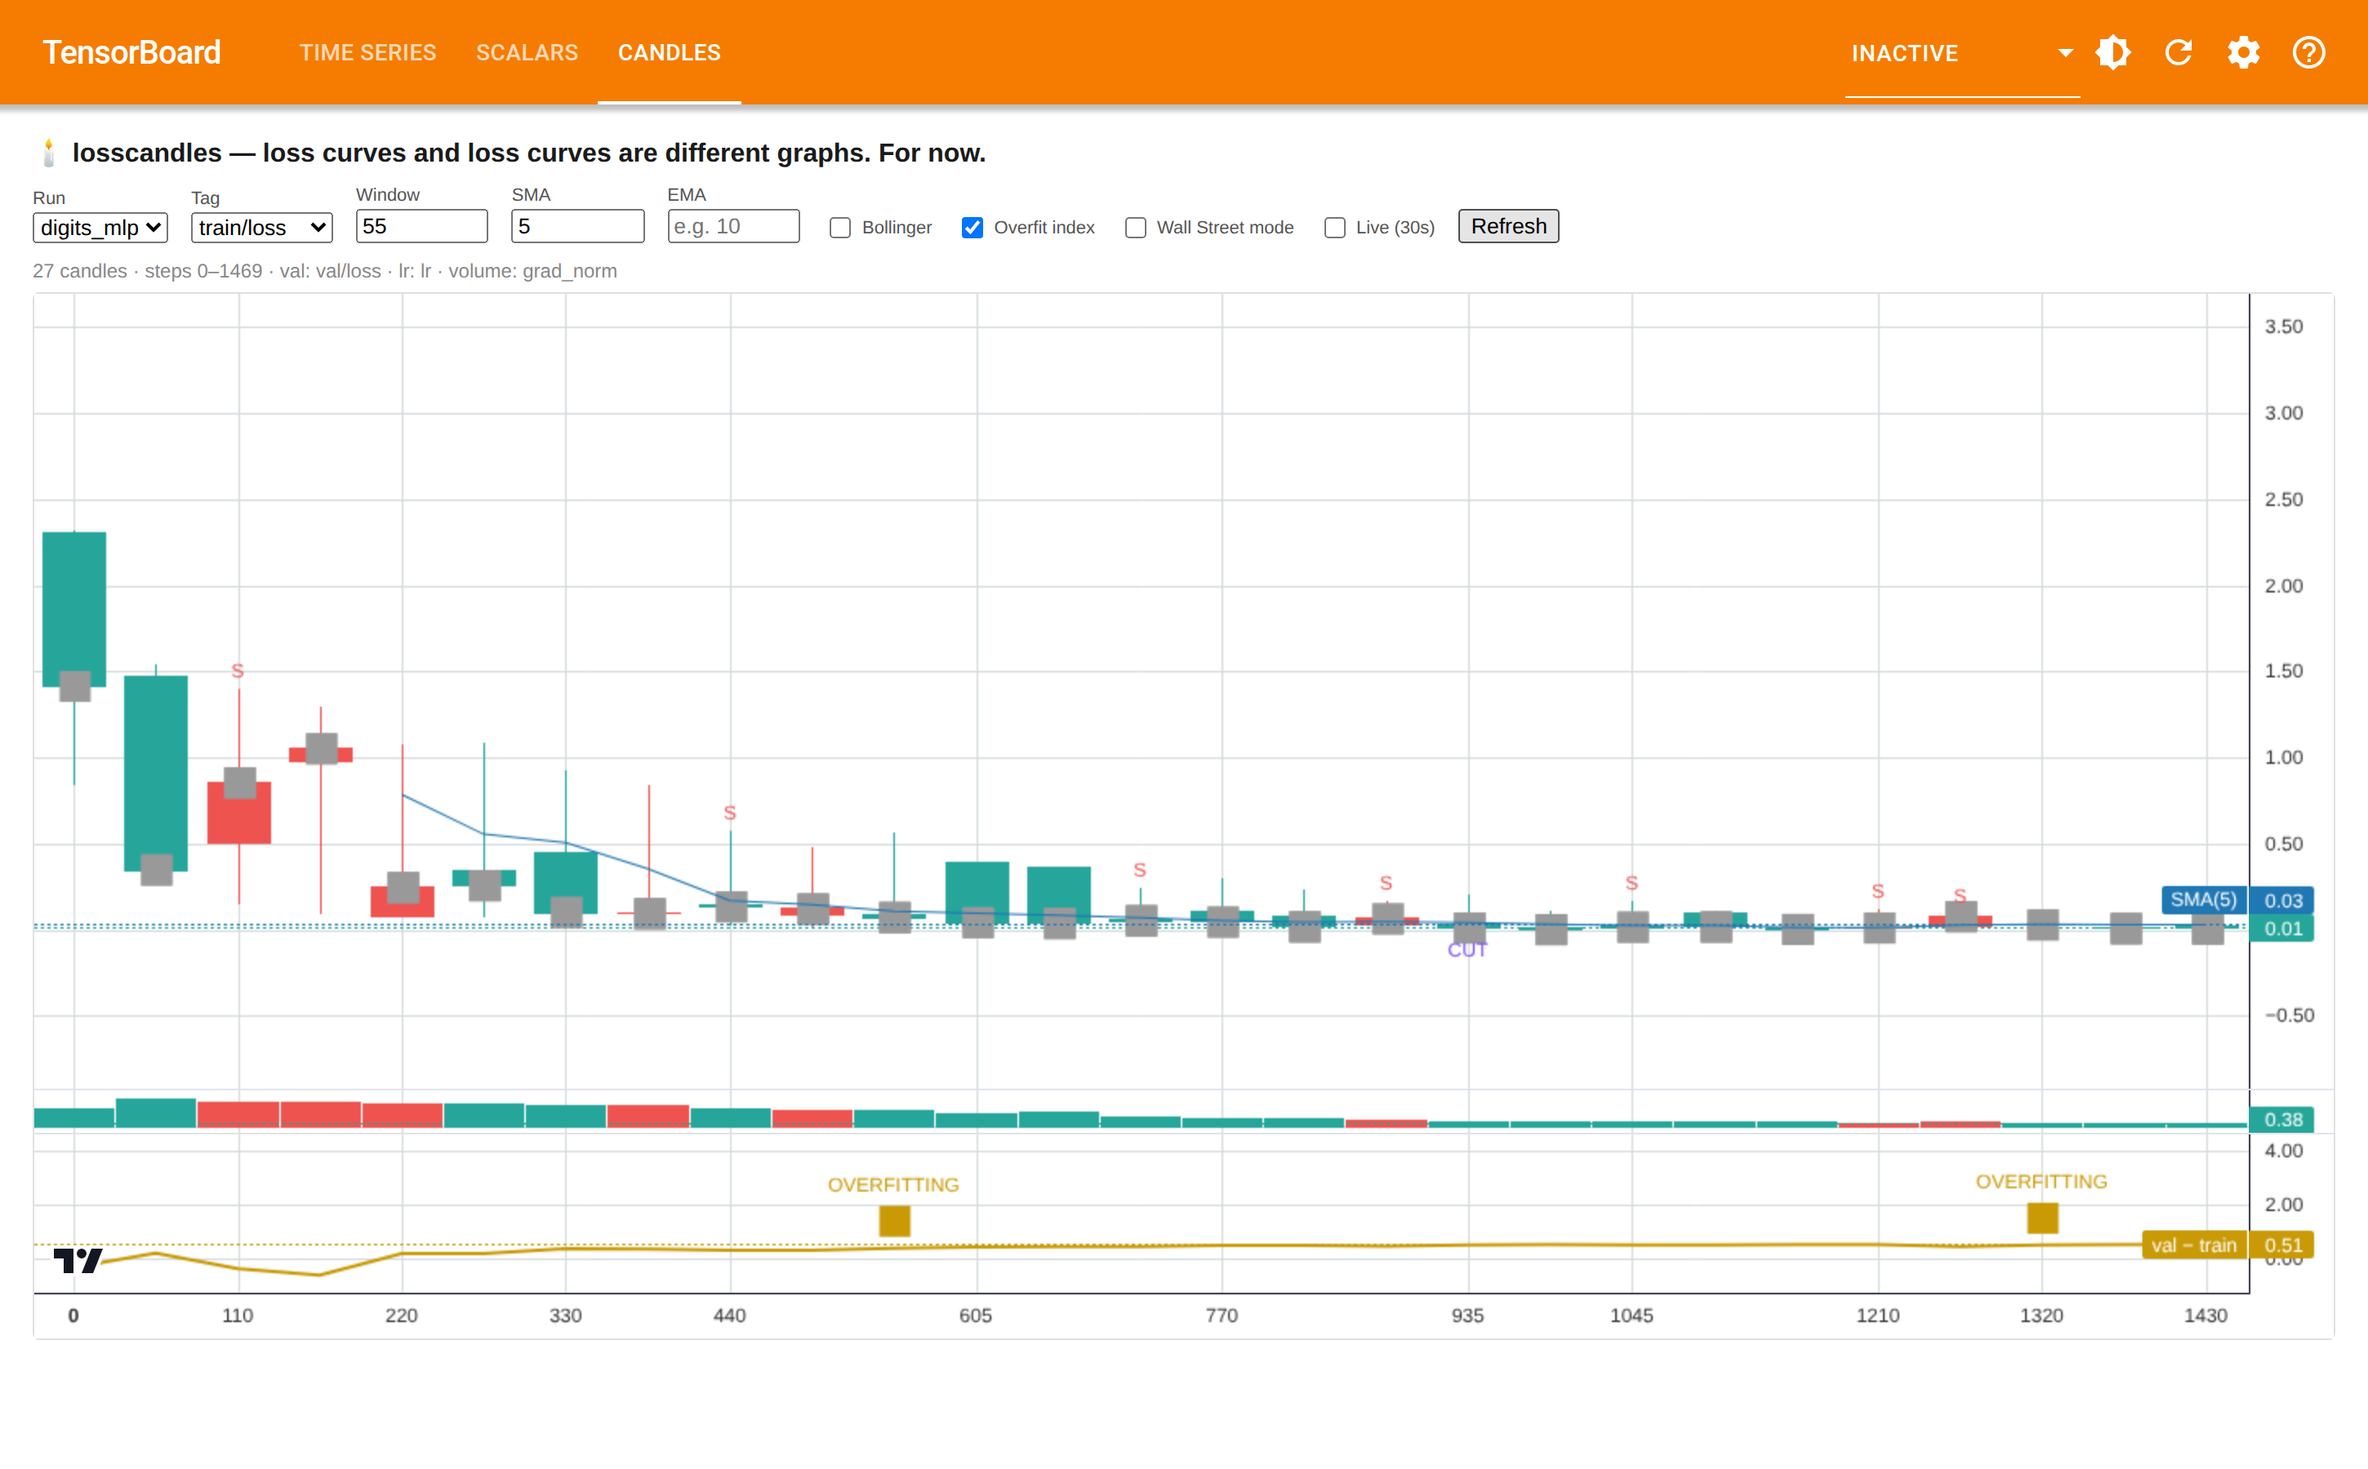
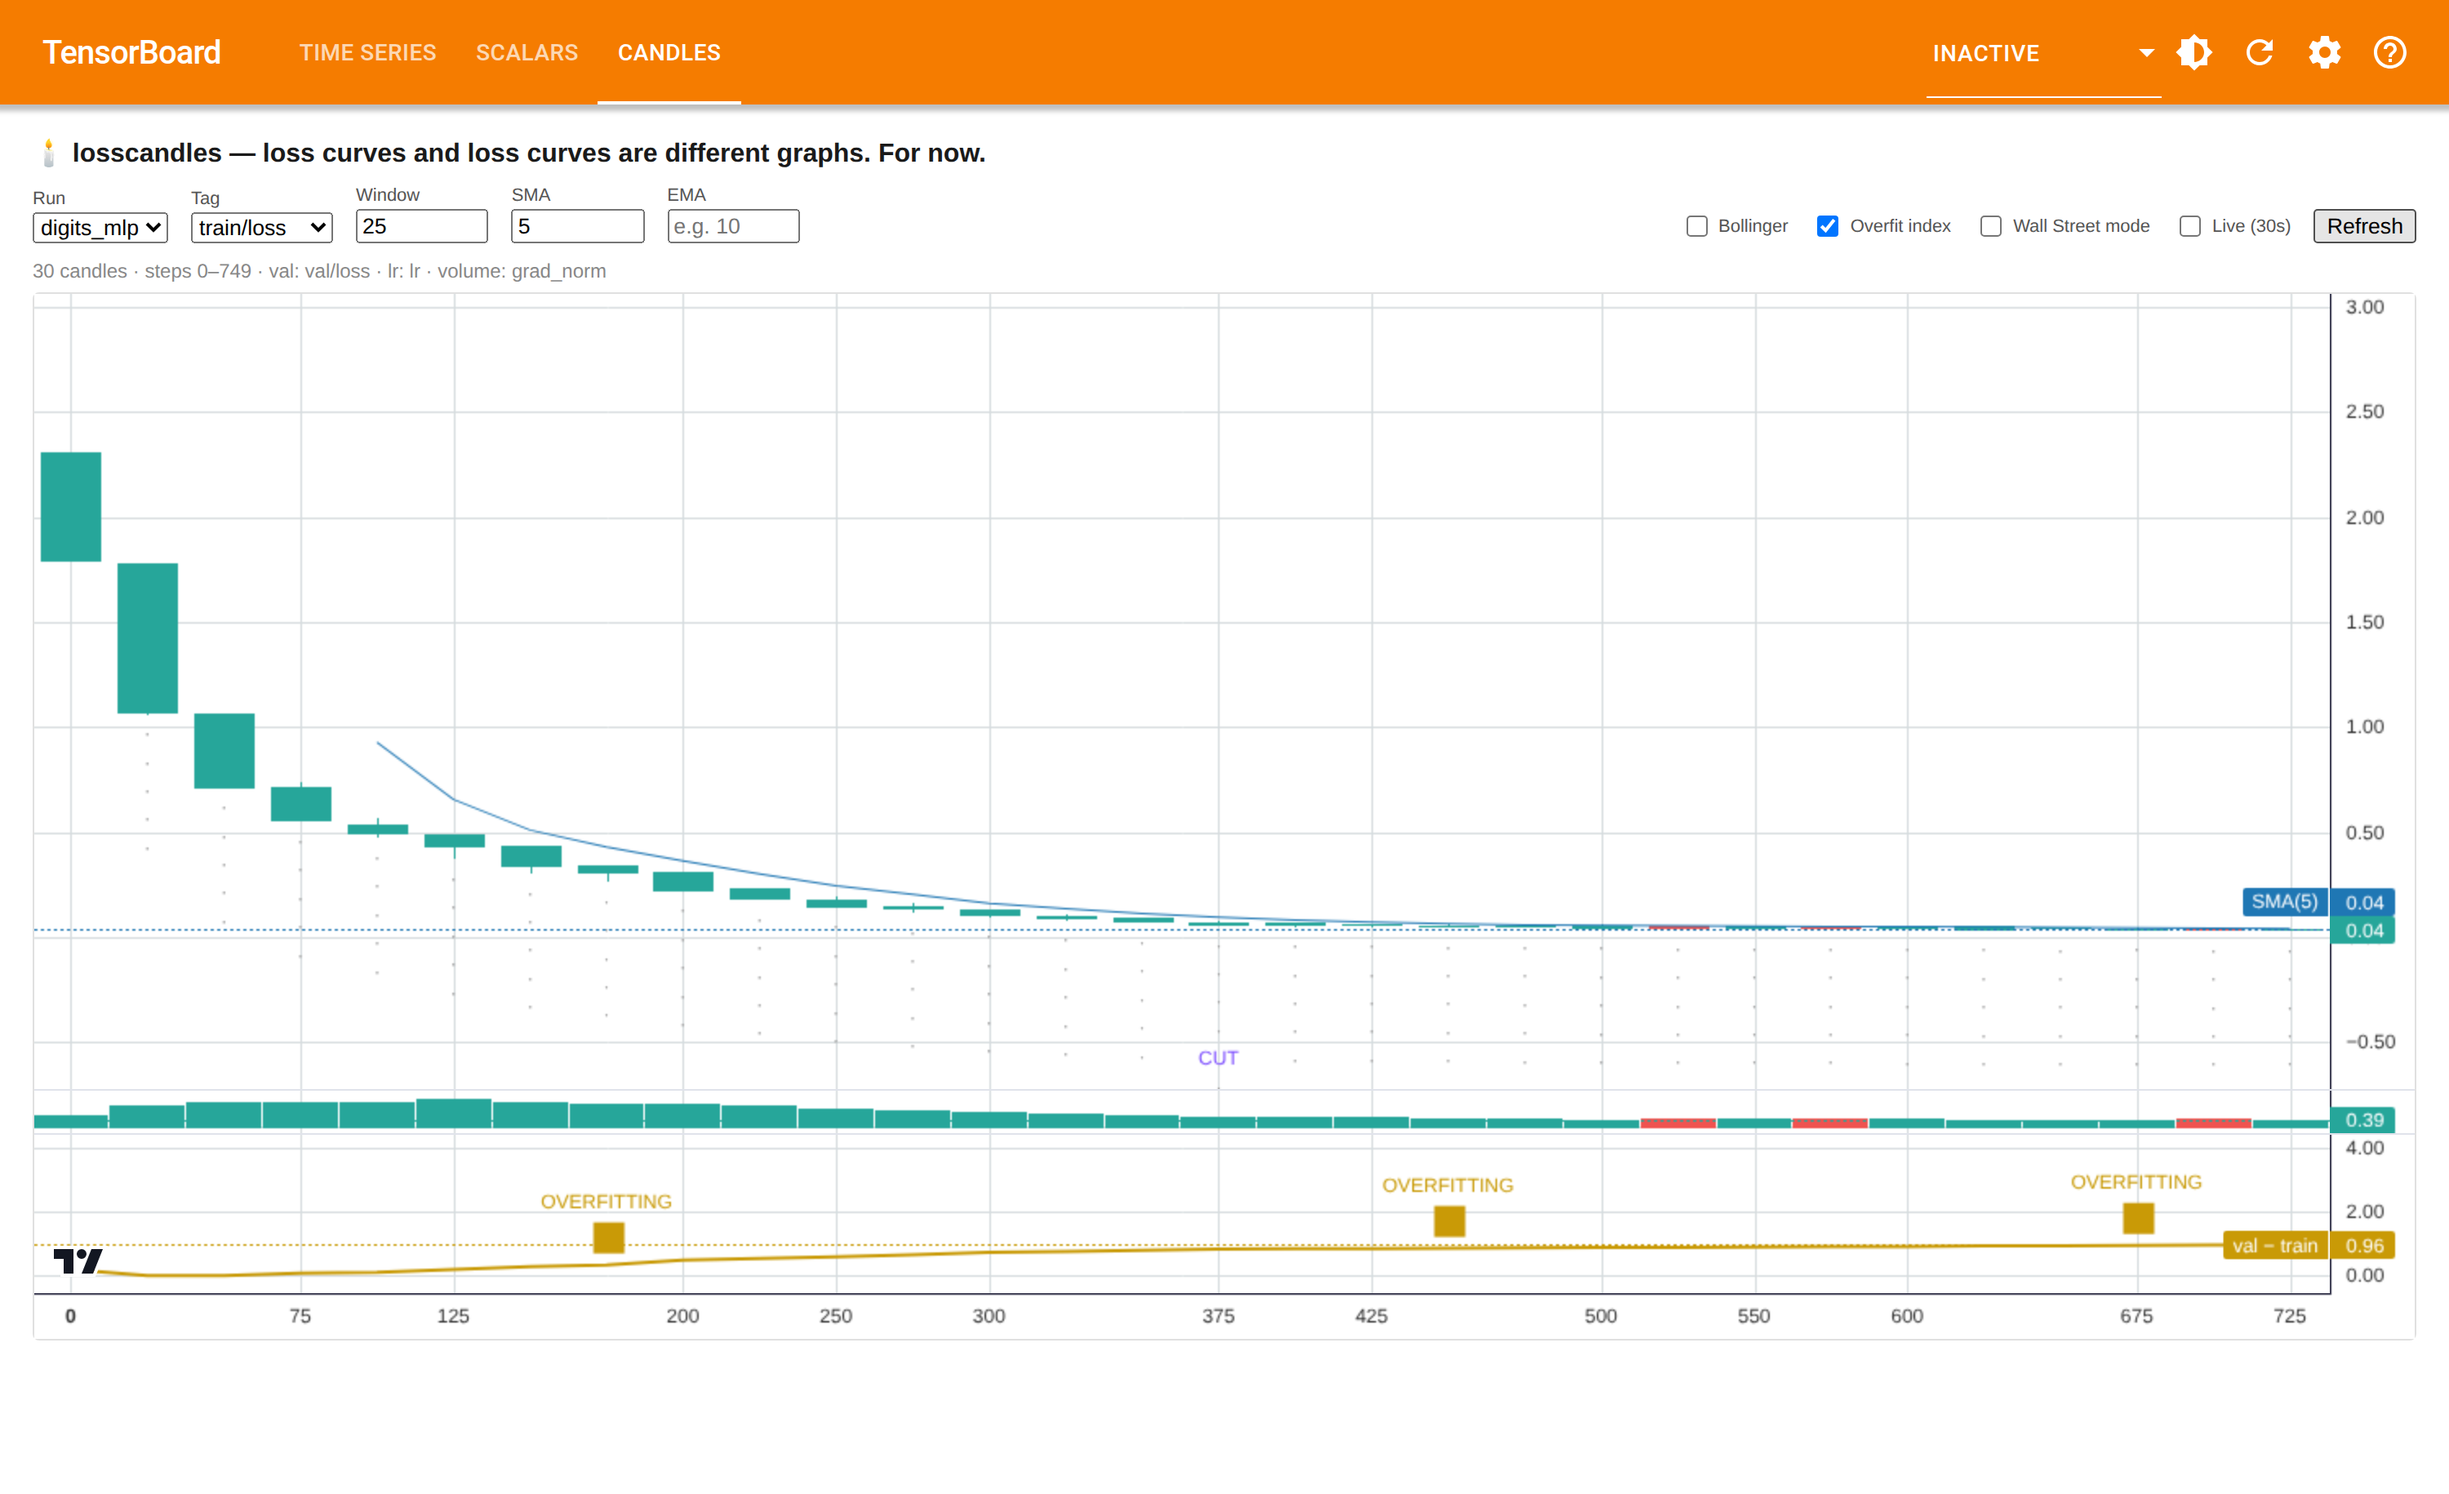
README: fresh real-training screenshot, drop PyPI install for local build
Not on PyPI (verified), so the pip-install-from-PyPI section was aspirational
and misleading. Replaced with git clone + pip install from source, plus
punched up a few remaining dry/technical sections (Why, Order book depth,
Development) to match the rest of the doc's tone.

Screenshot is from a fresh real training run (small-sample MLP on sklearn
digits, deliberately overfit) with visible candle texture throughout, a
genuine RATE CUT, and three real OVERFITTING regions.

Claude-Session: https://claude.ai/code/session_01Xme9QoQXmQCNBWvQoroLcK

diff --git a/README.md b/README.md
@@ -13,7 +13,7 @@ trade.
 ![bubble](https://img.shields.io/badge/bubble-priced%20in-blueviolet)
 ![python](https://img.shields.io/badge/python-3.10%2B-blue)
 
-![losscandles Candles tab in TensorBoard, showing a real training run's candlestick chart with an SMA overlay, an overfit-index pane with two detected OVERFITTING regions, SELL signal markers, and a RATE CUT marker](docs/screenshot.png)
+![losscandles Candles tab in TensorBoard, showing a real training run's candlestick chart with an SMA overlay, a RATE CUT marker, and an overfit-index pane with three detected OVERFITTING regions](docs/screenshot.png)
 
 ---
 
@@ -27,14 +27,29 @@ An entire industry feeds candlestick charts *into* neural networks to predict
 markets. **Nobody has fed the neural network back out into a candlestick
 chart.** The arbitrage was wide open. We took the trade.
 
-This is not a workaround, a logging-charts-as-images hack, or an offline
-HTML export. It's a real dynamic TensorBoard plugin with its own "Candles" tab,
-reading your scalars live through TensorBoard's own data provider.
+This is not a workaround, a logging-charts-as-images hack, or an offline HTML
+file cosplaying as a webapp. It's a real dynamic TensorBoard plugin with its
+own "Candles" tab, reading your scalars live through TensorBoard's own data
+provider — the exact plumbing SCALARS and TIME SERIES use. We just gave it a
+Bloomberg terminal instead of a blue line.
 
-## Install
+## Install (local build — we're not listed on any exchange)
+
+There is no `pip install losscandles`. This ticker doesn't trade anywhere
+public, which is either an anti-rug-pull guarantee or a red flag depending on
+your priors:
 
 ```bash
-pip install losscandles
+git clone https://github.com/Cosxin/losscandles.git
+cd losscandles
+pip install .
+```
+
+Want the drop-in `torch` writer (epoch gridlines, a declared volume tag,
+halt-on-NaN)?
+
+```bash
+pip install ".[torch]"
 ```
 
 *Past performance of this model does not guarantee convergence. Not financial
@@ -43,7 +58,7 @@ advice.*
 ## Quickstart
 
 **Zero-instrumentation** — point it at any logdir written by plain
-`SummaryWriter.add_scalar`, no code changes required:
+`SummaryWriter.add_scalar`. No code changes, no SDK key, no seed round:
 
 ```bash
 python -m losscandles.demo        # generates a synthetic run under runs/demo
@@ -54,7 +69,8 @@ Longer real runs may want a higher TensorBoard sampling cap — see
 [Order book depth](#order-book-depth-aka-sampling) below.
 
 **Drop-in writer** — change one import, keep your training loop, and unlock
-epoch gridlines / a declared volume tag / halt-on-NaN:
+epoch gridlines, a declared volume tag, and a big red HALT button for the day
+your loss discovers NaN:
 
 ```python
 from losscandles.torch import LossCandlesWriter as SummaryWriter
@@ -78,7 +94,7 @@ always wins if you've called it.
 
 `torch` is only required for `losscandles.torch` — the plugin itself has no
 torch dependency and works with any framework that writes standard
-TensorBoard scalar summaries.
+TensorBoard scalar summaries: PyTorch, JAX, Keras, or a `for` loop and a dream.
 
 ## Reading the chart
 
@@ -108,16 +124,16 @@ no `losscandles.torch` required.
 
 ## Order book depth (a.k.a. sampling)
 
-TensorBoard caps scalar ingestion at ~1000 points per tag by default, which
-can quietly truncate candles on long runs. For full-resolution charts on
-larger runs:
+TensorBoard's own market makers cap scalar ingestion at ~1000 points per tag
+by default, which can quietly truncate candles on long runs — thin liquidity,
+wide spreads, missing candles. For full-resolution charts on larger runs:
 
 ```bash
 tensorboard --logdir runs --samples_per_plugin scalars=100000
 ```
 
 The bundled demo run is sized to stay under the default cap, so `tensorboard
---logdir runs` alone is enough to see it at full resolution.
+--logdir runs` alone is enough to see it at full depth.
 
 ## Backward compatibility (since the 2000s)
 
@@ -159,13 +175,17 @@ Trading halts. A black marker goes up on the chart. A moment of silence is
 observed. Restart from checkpoint like the Fed restarts liquidity: quietly,
 and pretending it was the plan.
 
-## Development
+## Development (for masochists who want to help)
 
 ```bash
 pip install -e ".[dev,torch]"
 pytest                                          # unit + WSGI route + entry-point tests
 cd frontend && npm install && npm run build     # rebuild static/index.js after editing src/index.ts
 ```
+
+Pull requests are welcome and will be reviewed with exactly the rigor you'd
+expect for a candlestick chart of a number that only goes down. Bug fixes and
+joke improvements are weighted equally.
 
 ## Roadmap
 
